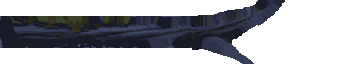
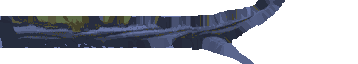
The forest's new trees and wood, brighter
Matt: it fades into the background too much. Tree pieces and boughs are
lifted 1.6 in value, the foliage 1.6 in saturation as well so it stays
green, and the new wood tiles 1.3. Hue kept, palette check passes.

Claude-Session: https://claude.ai/code/session_01TWiA2aGhByRtUBDPA9gUkq

diff --git a/ART.md b/ART.md
@@ -921,6 +921,14 @@ tiles, value lifted by half and saturation a little so they read from
 across the room, the cracked one given a crumbling underside and a crack.
 Warm where a sword bites, the trunk's cold bark where it does not.
 
+**Brighter (Matt, 2026-10-24: "it fades into the background too much").**
+Every tree piece and bough has its value lifted by 1.6, the foliage its
+saturation by 1.6 too (lifted alone it went grey), and the new wood tiles
+1.3 on top of their first lift. Hue kept, so every dark stays coloured; all
+pass `palette-check.py`. The trunks are now among the brightest things on
+screen, past the ground's lip, which `ART_DIRECTION.md`'s "backgrounds lose"
+would argue against: Matt's call when he sees it.
+
 **In the game**: trees are placed by hand in `[decor]` (`y` a foot on the
 ground, `k` its crown in the same column; level design, not a rule), with
 leaves round each crown. By rule: leaves at a branch's free ends, moss under
